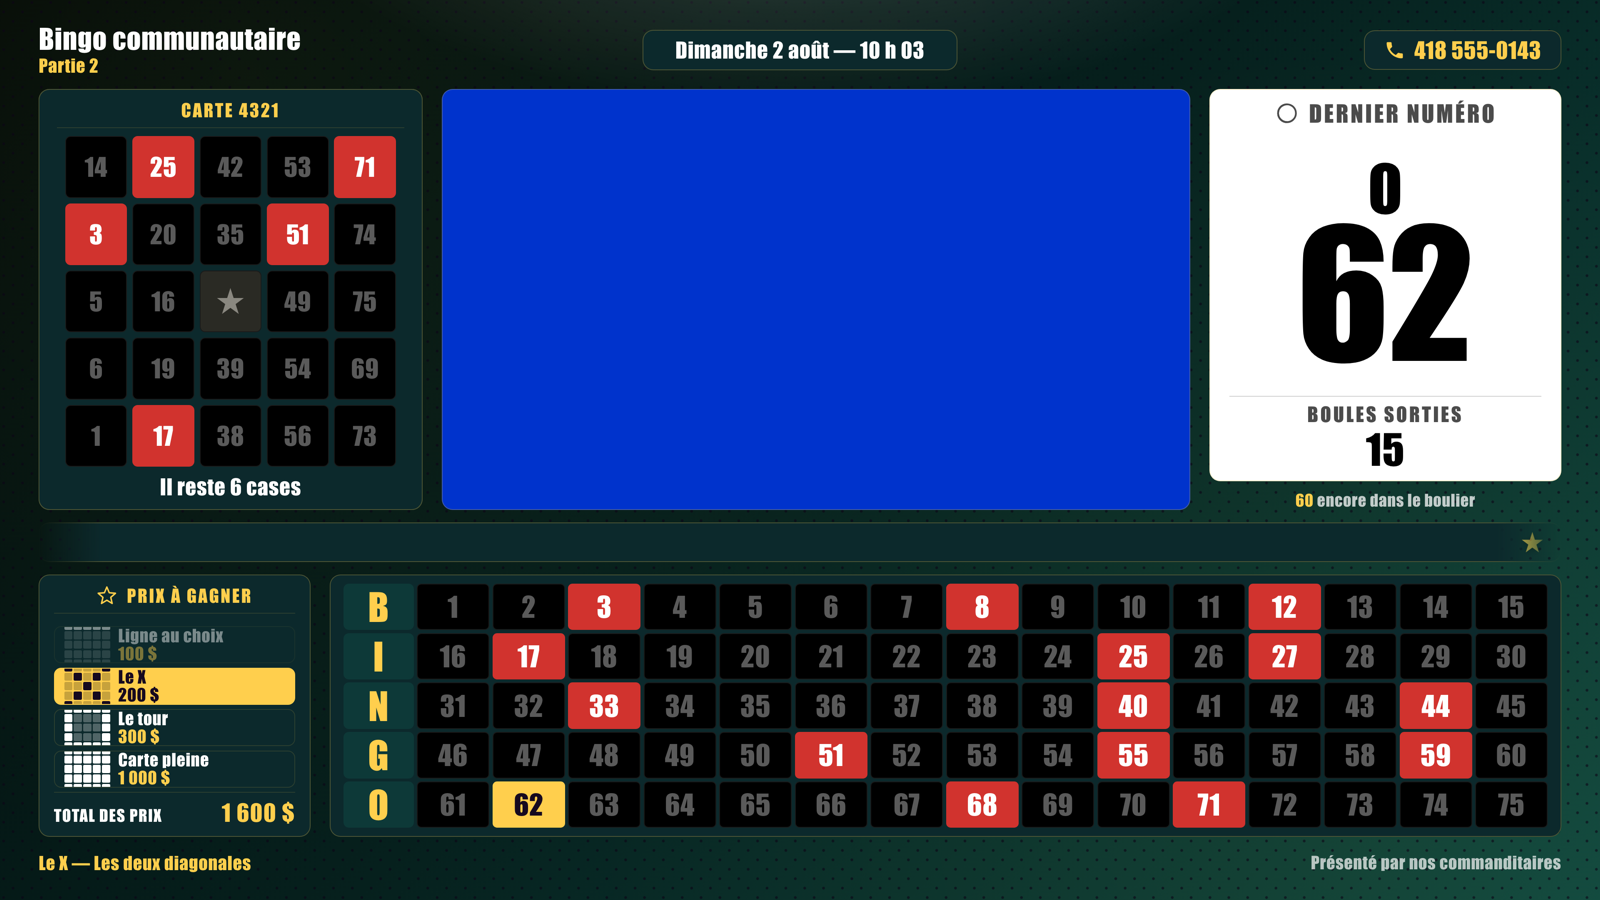
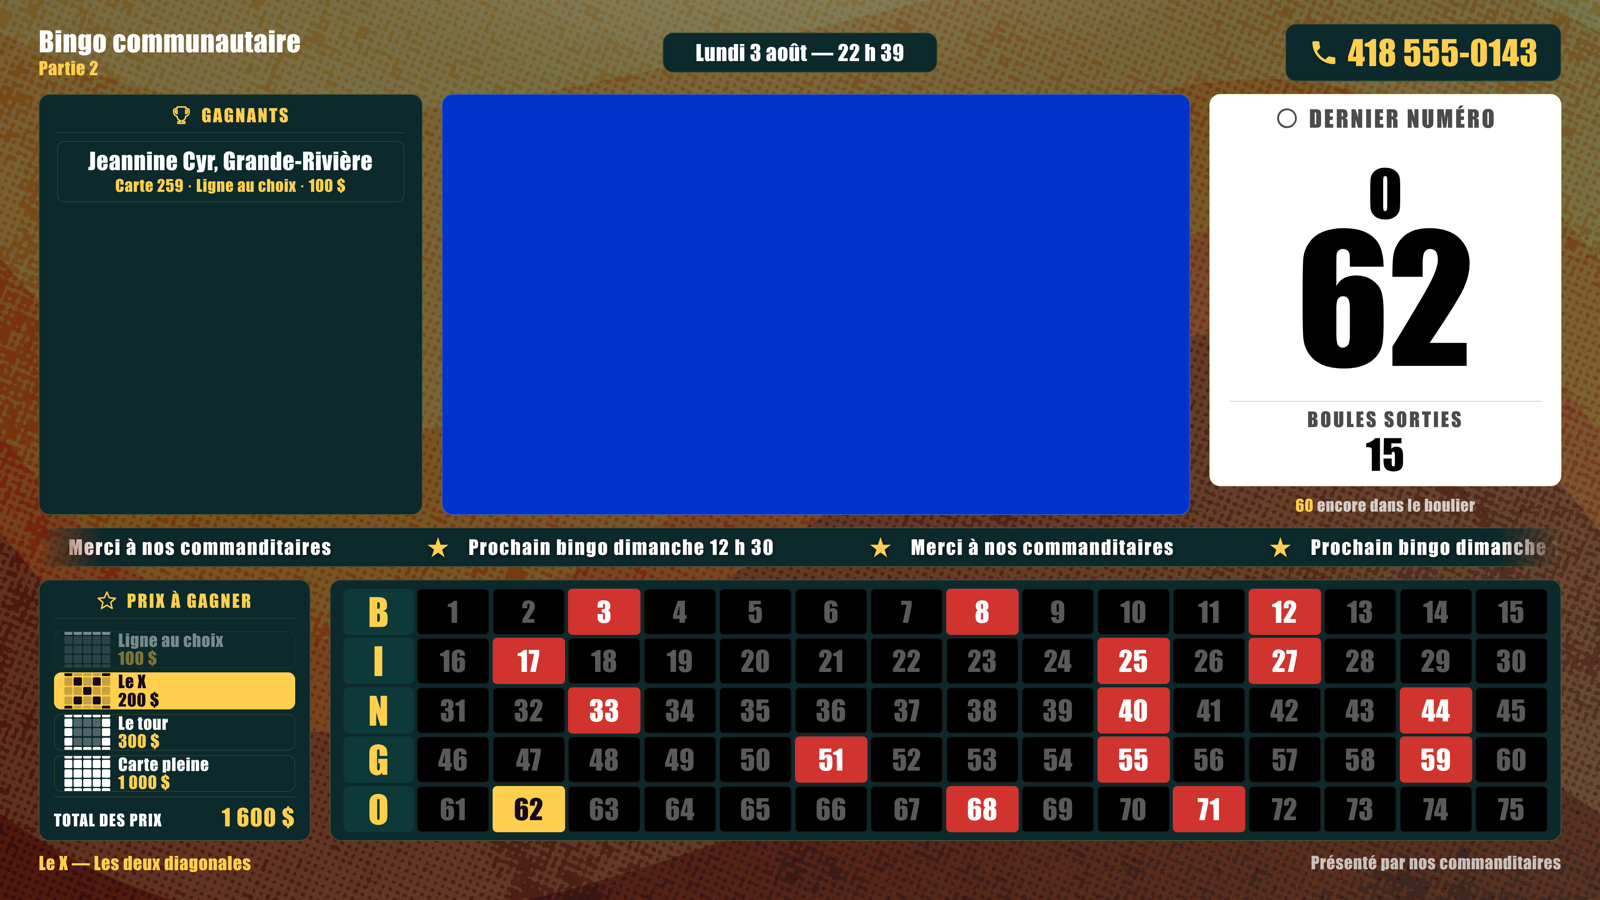
Une page qui explique la préparation des cartes
Marc trouvait l'impression un peu complexe et voulait la détacher du
logiciel pour la faire en ligne. On garde la génération dans le logiciel —
elle est au coeur du modèle décrit dans la demande d'avis à la RACJ, et la
déplacer sur un serveur rapprocherait l'éditeur du rôle de fournisseur.
On règle plutôt le vrai problème : c'est intimidant faute d'explications.

La page reprend le panneau réglage par réglage, avec la capture d'écran.
Elle montre une VRAIE feuille produite par le logiciel, à côté du texte qui
explique où se placent les deux numéros de l'article 72 et pourquoi le
numéro de face est imprimé à deux endroits.

Elle dit aussi ce qu'on remet au fournisseur — le PDF, la couleur du
papier, le nombre d'exemplaires, le montage en livrets — et rappelle qu'il
doit détenir une licence de fournisseur en bingo.

Le script de captures était cassé depuis le renommage des boutons : il
cliquait « btn-montrer », disparu avec le mode vérification. Il ne passe
plus l'antenne en vérification non plus, pour que sa capture montre bien
l'écran de jeu ordinaire.

diff --git a/site/preparer-les-cartes/index.html b/site/preparer-les-cartes/index.html
@@ -1,0 +1,241 @@
+<!doctype html>
+<html lang="fr-CA">
+<head>
+<meta charset="utf-8">
+<meta name="viewport" content="width=device-width, initial-scale=1">
+<title>Préparer tes cartes — Bingo Studio</title>
+<meta name="description" content="Comment préparer tes cartes de bingo avec Bingo Studio : les réglages un par un, les deux numéros exigés par le règlement, ce que tu remets à ton fournisseur licencié.">
+<link rel="stylesheet" href="../style.css">
+</head>
+<body>
+
+<header class="entete">
+  <div class="dedans entete-dedans">
+    <a class="marque" href="../">Bingo&nbsp;Studio</a>
+    <nav>
+      <a href="../#cartes">Les cartes</a>
+      <a href="../#emploi">Mode d'emploi</a>
+      <a href="../#contribution" class="lien-don">Contribuer</a>
+      <a href="mailto:marcbert@mailo.com?subject=Bingo%20Studio" class="lien-contact">Contactez&nbsp;Marc</a>
+    </nav>
+  </div>
+</header>
+
+<main>
+  <section class="heros">
+    <div class="dedans">
+      <p class="surtitre">Guide détaillé</p>
+      <h1>Préparer tes cartes</h1>
+      <p class="accroche">
+        Ça se fait <strong>une fois</strong>, longtemps d'avance, en dix
+        minutes. Après, tu n'y touches plus de l'année.
+      </p>
+    </div>
+  </section>
+
+  <!-- ==================== En trois temps ==================== -->
+  <section class="bande bande-sombre">
+    <div class="dedans">
+      <h2>En trois temps</h2>
+      <ol class="etapes">
+        <li>
+          <h3>Tu règles</h3>
+          <p>Dans la régie, bouton <strong>Imprimer les cartes</strong>, en haut.
+             Tu choisis combien de grilles par feuille, quelle tranche de la
+             base, la couleur des blocs et ton numéro de contrôle.</p>
+        </li>
+        <li>
+          <h3>Le logiciel produit le PDF</h3>
+          <p>Un fichier, prêt tel quel. Rien à retoucher, rien à mettre en page.</p>
+        </li>
+        <li>
+          <h3>Tu le remets à ton fournisseur</h3>
+          <p>Il imprime, il coupe, il assemble les livrets. C'est son métier —
+             et c'est <a href="../#cadre-legal">une obligation du règlement</a>.</p>
+        </li>
+      </ol>
+    </div>
+  </section>
+
+  <!-- ==================== Le panneau ==================== -->
+  <section class="bande">
+    <div class="dedans">
+      <h2>Le panneau, réglage par réglage</h2>
+
+      <figure class="apercu">
+        <img src="../images/impression.png" alt="Le panneau d'impression : grilles par feuille, format, tranche de cartes, couleur des blocs, numéro de contrôle, et le résumé du tirage." width="1600" height="570" loading="lazy">
+      </figure>
+
+      <div class="grille-deux">
+        <article class="carte">
+          <h3>Grilles par feuille</h3>
+          <p>De 1 à 18. Trois et six sont les plus courants au Québec. Le
+             règlement <strong>n'impose rien</strong> là-dessus : ce sont des
+             formats commerciaux, pas des obligations.</p>
+        </article>
+        <article class="carte">
+          <h3>Format</h3>
+          <p>Letter, Legal ou A4. Letter est le format nord-américain habituel.
+             Là non plus, aucune dimension n'est imposée.</p>
+        </article>
+        <article class="carte">
+          <h3>De la carte · à la carte</h3>
+          <p>La tranche de la base que tu montes. Les cartes 1 à 300 pour
+             dimanche, 301 à 600 la semaine d'après — ou toute la base d'un coup
+             si tu ne commandes qu'une fois par année.</p>
+        </article>
+        <article class="carte">
+          <h3>Couleur des blocs BINGO</h3>
+          <p>Seuls les blocs B-I-N-G-O prennent ta couleur. Le reste reste noir
+             sur blanc : ça s'imprime mieux, ça coûte bien moins cher en encre
+             et ça se lit de loin.</p>
+        </article>
+      </div>
+
+      <p class="intro" style="margin-top:24px">
+        Sous les réglages, un <strong>résumé</strong> t'annonce d'avance ce qui
+        va sortir : le nombre de feuilles, le temps de rendu, le poids du
+        fichier. Aucune surprise à l'ouverture du PDF.
+      </p>
+    </div>
+  </section>
+
+  <!-- ==================== Les deux numéros ==================== -->
+  <section class="bande bande-sombre">
+    <div class="dedans">
+      <h2>Les deux numéros du règlement</h2>
+      <p class="intro">
+        L'article 72 des <em>Règles sur les bingos</em> exige qu'une carte
+        ordinaire porte <strong>un numéro de contrôle et un numéro de
+        série</strong>, plus la mention « gratuit » au centre. Voici comment ils
+        se placent.
+      </p>
+
+      <div class="grille-deux">
+        <div>
+          <figure class="apercu">
+            <img src="../images/feuille-cartes.png" alt="Une feuille de six cartes : le numéro de contrôle en rouge au centre du bandeau BINGO, et le numéro de la face dans la case GRATUIT et en bas à droite." width="927" height="1200" loading="lazy">
+          </figure>
+        </div>
+        <div>
+          <article class="carte">
+            <h3>Le numéro de contrôle</h3>
+            <p>En rouge, sur cartouche blanc, au <strong>centre du bandeau
+               B-I-N-G-O</strong>. Il est <strong>le même sur toutes les cartes
+               d'un même tirage</strong> — c'est lui qui identifie la série mise
+               en circulation.</p>
+            <p>Change-le à chaque nouveau lot, comme la couleur du papier. Il
+               permet de voir d'un coup d'œil qu'un joueur a bien les cartes de
+               la semaine.</p>
+            <p class="petit">Tu le saisis toi-même. <strong>Laissé vide, rien ne
+               s'imprime</strong> — c'est le cas si ton fournisseur l'appose
+               lui-même sur presse.</p>
+          </article>
+          <article class="carte" style="margin-top:20px">
+            <h3>Le numéro de la face</h3>
+            <p>Dans la <strong>case du centre</strong>, sous la mention GRATUIT,
+               et répété <strong>en bas à droite</strong>. Il est propre à chaque
+               carte : c'est lui que le joueur te donne au téléphone.</p>
+            <p>Deux endroits, parce qu'en fin de partie le centre de la carte
+               disparaît sous les jetons.</p>
+          </article>
+        </div>
+      </div>
+    </div>
+  </section>
+
+  <!-- ==================== Les séries éparpillées ==================== -->
+  <section class="bande">
+    <div class="dedans">
+      <h2>Pourquoi les numéros sont éparpillés</h2>
+      <div class="grille-deux">
+        <article class="carte">
+          <h3>Une feuille ne porte jamais 1-2-3</h3>
+          <p>Les numéros de face sont brassés sur l'ensemble du tirage avant
+             d'être découpés en feuilles. Une feuille portera 4821, 193, 7702 —
+             jamais trois numéros qui se suivent.</p>
+          <p>Deux raisons : personne ne peut deviner ce qu'il achète, et les
+             grilles voisines ne se retrouvent pas dans la même main.</p>
+        </article>
+        <article class="carte">
+          <h3>Un lot perdu se réimprime à l'identique</h3>
+          <p>La répartition vient d'une <strong>graine</strong>. À graine égale,
+             elle est rigoureusement la même. Si un carton se perd chez
+             l'imprimeur, tu régénères exactement le même fichier.</p>
+          <p class="petit">La graine par défaut convient à tout le monde. Tu peux
+             la changer, mais note-la : c'est elle qui permet de refaire le même
+             lot.</p>
+        </article>
+      </div>
+    </div>
+  </section>
+
+  <!-- ==================== Ce qu'il faut dire au fournisseur ==================== -->
+  <section class="bande bande-sombre">
+    <div class="dedans">
+      <h2>Ce que tu remets à ton fournisseur</h2>
+      <p class="intro">
+        Le PDF, et quatre précisions. C'est tout ce dont il a besoin pour
+        travailler.
+      </p>
+      <ul class="liste-simple">
+        <li><strong>Le fichier PDF</strong> — déjà à la bonne taille de page, sans marge à ajouter</li>
+        <li><strong>La couleur du papier</strong> — le PDF est noir sur blanc ; c'est lui qui charge le papier teinté</li>
+        <li><strong>Le nombre d'exemplaires</strong> par feuille</li>
+        <li><strong>Le montage en livrets</strong> — combien de feuilles par livret, et dans quel ordre</li>
+      </ul>
+      <p class="intro" style="margin-top:24px">
+        Le nom du fichier reprend déjà tes réglages, pour éviter les
+        malentendus :<br>
+        <code>feuilles-6-grilles-7525-a-7530-controle-174246.pdf</code>
+      </p>
+
+      <p class="mise-en-garde" style="margin-top:24px">
+        ⚠ <strong>Ton fournisseur doit détenir une licence de fournisseur en
+        bingo.</strong> Un titulaire de licence de bingo-média ne peut utiliser
+        que des cartes provenant d'un fournisseur licencié. La Régie publie la
+        liste — vérifie avant de commander.
+        <a href="../#cadre-legal">En savoir plus</a>.
+      </p>
+    </div>
+  </section>
+
+  <!-- ==================== Contact ==================== -->
+  <section class="bande">
+    <div class="dedans">
+      <h2>Un doute avant de lancer un tirage ?</h2>
+      <p class="intro">
+        Une erreur d'impression ne se corrige pas — elle se réimprime. Si tu
+        hésites sur un réglage, écris-moi avant de commander. Je peux regarder
+        ton fichier avec toi.
+      </p>
+      <div class="contact-bloc">
+        <div>
+          <strong>Marc Bert</strong>
+          <p>Je réponds moi-même. Envoie-moi ton PDF si tu veux un deuxième
+             coup d'œil.</p>
+        </div>
+        <a class="bouton bouton-fort" href="mailto:marcbert@mailo.com?subject=Bingo%20Studio%20—%20préparation%20des%20cartes">Contactez Marc</a>
+      </div>
+      <div class="boutons" style="margin-top:24px">
+        <a class="bouton" href="../#cartes">← Revenir aux cartes</a>
+        <a class="bouton" href="../#telecharger">Obtenir le logiciel</a>
+      </div>
+    </div>
+  </section>
+</main>
+
+<footer class="pied">
+  <div class="dedans">
+    <p><strong>Bingo Studio</strong> — construit en Gaspésie, pour les bingos communautaires.</p>
+    <p class="pied-contact">
+      <strong>Contactez Marc</strong> —
+      <a href="mailto:marcbert@mailo.com?subject=Bingo%20Studio">marcbert@mailo.com</a>
+    </p>
+    <p class="petit">© <span id="annee">2026</span> Marc Bert. Logiciel offert gratuitement.</p>
+  </div>
+</footer>
+
+<script>document.getElementById("annee").textContent = new Date().getFullYear();</script>
+</body>
+</html>

diff --git a/site/index.html b/site/index.html
@@ -461,7 +461,15 @@
         </article>
       </div>
 
-      <p class="intro">
+      <div class="boutons" style="margin-top:28px">
+        <a class="bouton bouton-fort" href="preparer-les-cartes/">Le guide détaillé : préparer tes cartes</a>
+      </div>
+      <p class="petit">
+        Les réglages un par un, les deux numéros du règlement, et ce qu'il faut
+        remettre à ton fournisseur. Avec les captures d'écran.
+      </p>
+
+      <p class="intro" style="margin-top:32px">
         <strong>Besoin de plus de 50 000 numéros de série ?</strong>
         C'est déjà large — mais si ta station en écoule davantage, ou veut
         repartir sur une série neuve, écris-moi et je produis une base à ta
@@ -472,7 +480,7 @@
   </section>
 
   <!-- ============================ Cadre légal ============================ -->
-  <section class="bande">
+  <section class="bande" id="cadre-legal">
     <div class="dedans">
       <div class="avis">
         <h2>Un mot important sur le cadre légal</h2>
